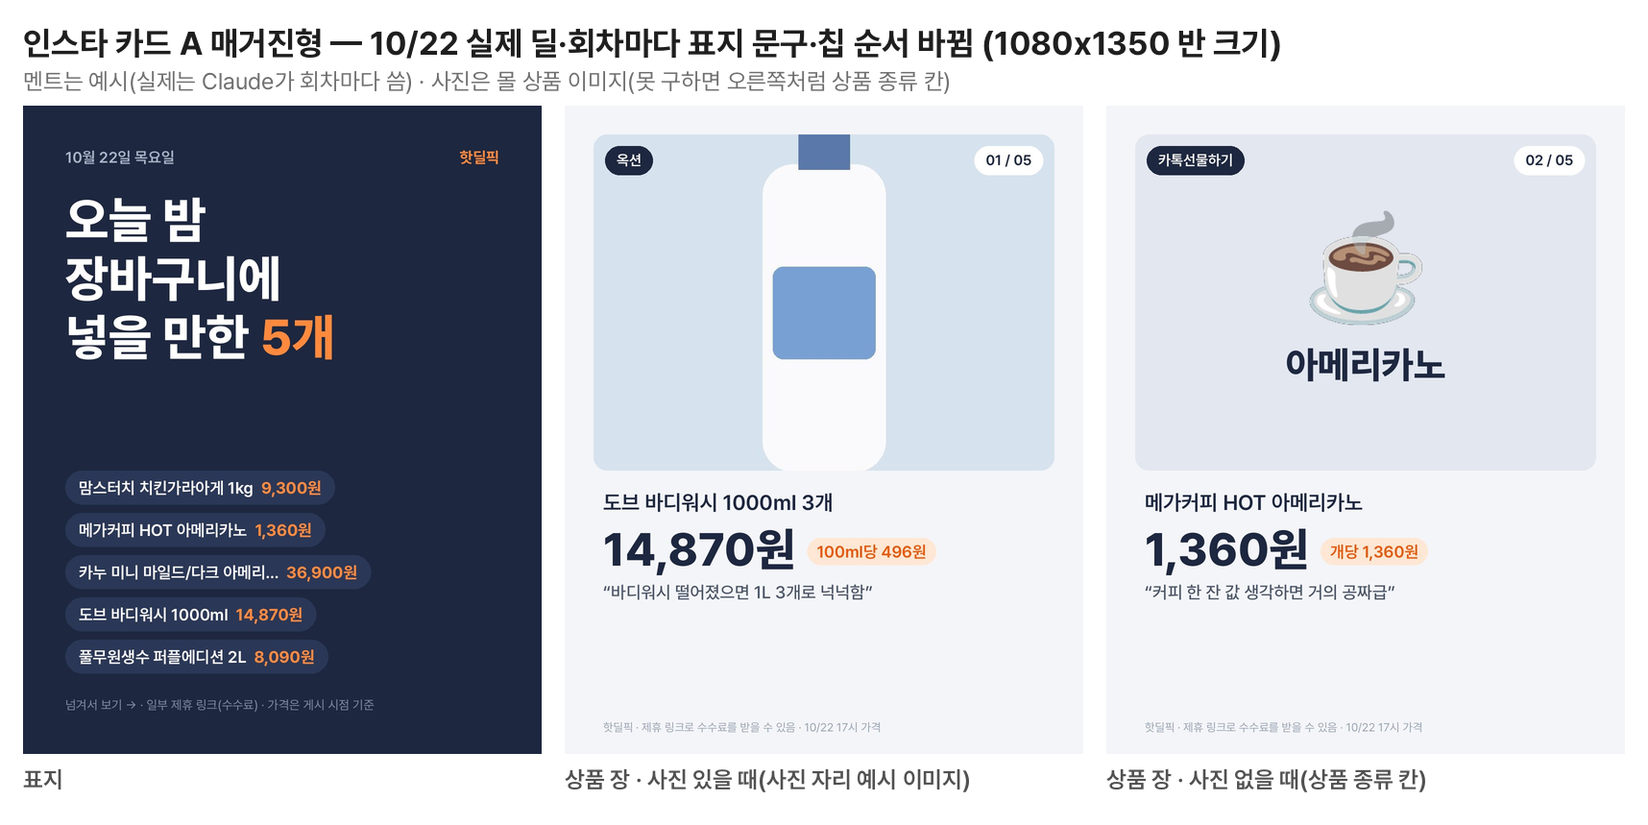
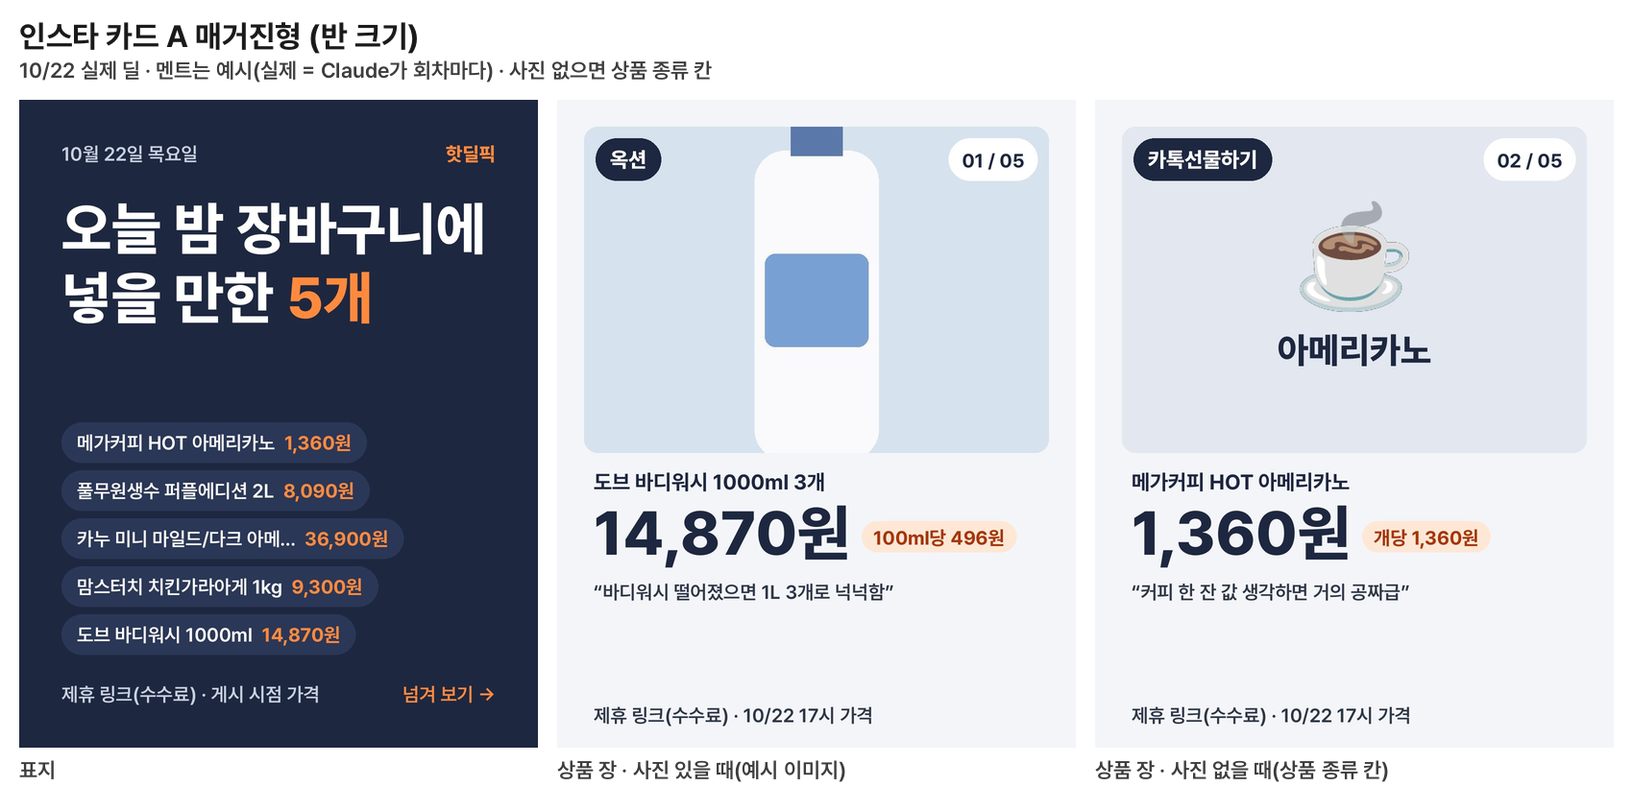
인스타 새 카드 '눈에 잘 들어와야'(진우): 제목 2줄·핵심 숫자 1개 크게·보조 글자 40px↑·크림 위 회색 X·대비 4.5:1↑ + 1/3 크기 시안
- A: 제목 2줄(폭 맞춤 최대 128px), 칩·날짜·안내 40px, 상품 장 가격 최대 128px·몰 배지 44px ExtraBold, 칩 글자 진한 주황(대비 5.6)
- B: 먹색 제목·가격 + 형광펜, 타일 이름 40px·가격 54px 형광펜, 스티커 진한 테두리·가격 80px·단위가격 40px, 안내·몰 줄 진한 갈색
- cards.contrast·IG_PAIRS(WCAG) — 전 조합 4.5:1↑(최저 5.0) · 셀프체크: 대비·제목 2줄·그린 글꼴 40px↑·1/3 렌더
- docs/cards/preview_A·B.png + preview_A_small·B_small.png

Claude-Session: https://claude.ai/code/session_0166LncLSude1PVe4eEqmcYn

diff --git a/cards.py b/cards.py
@@ -423,10 +423,12 @@ if __name__ == "__main__":
 # ── 인스타 카드 새 디자인(10/22 22:3x 진우 '디자인 업그레이드' — 시안 A·B 번갈아, 인스타만: 텔레그램·Threads·사이트 카드는 위 make·deal_card 그대로) ──
 # it(상품 1개) = {"name", "short"(칩·타일용 짧은 이름), "price", "chip"(단위가격·'와우 할인'·'47%↓'), "badge"('🚀 쿠팡 로켓'·'💙 토스 특가'·'네이버' — 채널 머리 줄 규칙),
 #                 "ship"('내일 도착'·'무료배송'), "photo"(몰 상품 이미지 경로, 없으면 None -> 상품 종류 글자 칸), "e"(이모지), "kind"(상품 종류 낱말), "line"(한 줄 멘트), "when"('10/22 21시')}
-NAVY, NAVY2, ORANGE, PAPER, BROWN, INKB, RUST, HIGHLIGHT = (29, 39, 64), (43, 55, 87), (255, 138, 61), (246, 241, 231), (138, 123, 102), (43, 36, 27), (217, 72, 15), (255, 216, 77)
+NAVY, NAVY2, ORANGE, PAPER, BROWN, INKB, RUST, HIGHLIGHT = (29, 39, 64), (43, 55, 87), (255, 138, 61), (246, 241, 231), (74, 63, 48), (26, 26, 26), (168, 52, 8), (255, 216, 77)
+LIGHT, SLATE, MIST, PEACH, PALE = (244, 245, 248), (45, 55, 72), (201, 209, 224), (255, 231, 214), (227, 231, 239)  # 10/22 진우 '눈에 잘 들어와야': 크림 위 회색 X — 글자는 먹색·진한 갈색, 보조 글자 40px↑
 
 
 def _hex(c):
+    c = {"white": "#ffffff", "black": "#000000"}.get(c, c)
     return tuple(int(c[i:i + 2], 16) for i in (1, 3, 5)) if isinstance(c, str) else c
 
 
@@ -484,7 +486,7 @@ def _photo(it, w, h, radius, bg=(227, 231, 239), ink=NAVY):
             pass
         kind = it.get("kind") or ""
         if kind:
-            f = pf("ExtraBold", max(26, int(min(w, h) * 0.11)))
+            f = pf("ExtraBold", max(40, int(min(w, h) * 0.11)))  # 보조 글자 40px↑
             s = _fit(f, kind, w - 40)
             d.text(((w - f.getlength(s)) / 2, h * 0.5 + es * 0.35), s, font=f, fill=ink)
     mask = Image.new("L", (w, h), 0)
@@ -499,158 +501,198 @@ def _save(im, out):
     return out
 
 
-def ig_cover(design, items, date_text, title, out, sub="", note="넘겨서 보기 → · 일부 제휴 링크(수수료) · 가격은 게시 시점 기준"):
-    """인스타 표지(1080x1350 JPEG). design 'A' = 매거진형(남색·큰 제목 3줄·상품 알약 칩), 'B' = 일상 스티커형(크림·형광펜 제목 2줄·2x2 기울인 타일).
-    title = 줄바꿈(\\n)으로 나눈 제목(숫자는 포인트색), sub = 부제(👍 꾸준템이 있을 때 등, A만). date_text: A '10월 22일 목요일' / B '10.22 목'. -> out"""
+
+
+def luminance(c):
+    """WCAG 상대 휘도."""
+    f = lambda v: v / 12.92 if v <= 0.03928 else ((v + 0.055) / 1.055) ** 2.4
+    r, g, b = (f(x / 255) for x in _hex(c)[:3])
+    return 0.2126 * r + 0.7152 * g + 0.0722 * b
+
+
+def contrast(a, b):
+    """WCAG 대비(1~21) — 보통 글자 4.5 이상, 큰 글자(24px↑ 또는 굵은 19px↑) 3 이상."""
+    la, lb = sorted((luminance(a), luminance(b)), reverse=True)
+    return (la + 0.05) / (lb + 0.05)
+
+
+IG_PAIRS = {  # 인스타 새 카드에 쓰는 글자색·바탕색 전부(셀프체크가 4.5:1 이상인지 봄 — 글자는 모두 40px↑라 큰 글자 기준 3:1보다 높게)
+    "A 표지 제목·칩 이름": ("white", NAVY), "A 표지 숫자·칩 가격": (ORANGE, NAVY), "A 표지 날짜·부제·안내": (MIST, NAVY), "A 칩 이름": ("white", NAVY2), "A 칩 가격": (ORANGE, NAVY2),
+    "A 상품명·가격": (NAVY, LIGHT), "A 몰 배지": ("white", NAVY), "A 번호 알약": (NAVY, "white"), "A 칩": (RUST, PEACH), "A 멘트": (SLATE, LIGHT), "A 안내": (SLATE, LIGHT), "A 종류 칸": (NAVY, PALE),
+    "B 제목·가격": (INKB, PAPER), "B 형광펜 위": (INKB, HIGHLIGHT), "B 타일·폴라로이드 글자": (INKB, "white"), "B 날짜·안내·몰 줄": (BROWN, PAPER), "B 더보기 알약": ("white", INKB),
+    "B 종류 칸": (INKB, (244, 238, 226)), "B 스티커": (INKB, HIGHLIGHT), "B 말풍선": (INKB, "white")}
+
+
+def _sized(text, weight, sizes, width):
+    """여러 줄(\n) 글자가 width 안에 들어가는 가장 큰 크기."""
+    return next((z for z in sizes if all(pf(weight, z).getlength(l) <= width for l in text.split("\n"))), sizes[-1])
+
+
+def _marker(d, xy, s, f, fill, mark):
+    """형광펜 밑줄(글자 아래 42%) 위에 글자."""
+    bb = d.textbbox(xy, s, font=f)
+    d.rectangle((bb[0] - 6, bb[3] - int((bb[3] - bb[1]) * 0.42), bb[2] + 6, bb[3] + 4), fill=mark)
+    d.text(xy, s, font=f, fill=fill)
+
+
+def ig_cover(design, items, date_text, title, out, sub="", note="제휴 링크(수수료) · 게시 시점 가격"):
+    """인스타 표지(1080x1350 JPEG) — 폰 피드에서 1초 안에 읽히게(10/22 진우): 제목 2줄(크게, 숫자 1개만 포인트색), 보조 글자 40px↑, 대비 4.5:1↑(IG_PAIRS).
+    design 'A' = 매거진형(남색·제목·상품 알약 칩), 'B' = 일상 스티커형(크림·형광펜 제목·2x2 기울인 타일). title = 2줄(\n). date_text: A '10월 22일 목요일' / B '10.22 목'. -> out"""
+    lines = title.split("\n")[:2]
     if design == "A":
         im = Image.new("RGBA", (W, H), NAVY + (255,))
         d, P = ImageDraw.Draw(im), 88
-        d.text((P, P), date_text, font=pf("SemiBold", 32), fill=_hex("#aab4c8"))
-        f = pf("Bold", 32); d.text((W - P - f.getlength("핫딜픽"), P), "핫딜픽", font=f, fill=ORANGE)
-        y, ft = 176, pf("ExtraBold", 104)
-        for line in title.split("\n")[:3]:
+        f = pf("SemiBold", 40); d.text((P, P), date_text, font=f, fill=MIST)
+        f = pf("ExtraBold", 40); d.text((W - P - f.getlength("핫딜픽"), P), "핫딜픽", font=f, fill=ORANGE)
+        z = _sized("\n".join(lines), "ExtraBold", (128, 120, 112, 104, 96, 88), W - 2 * P)
+        ft, y = pf("ExtraBold", z), 196
+        for line in lines:
             x = P
             for tok in re.findall(r"\S+\s*", _fit(ft, line, W - 2 * P)):
                 d.text((x, y), tok, font=ft, fill=ORANGE if re.search(r"\d", tok) else "white")
                 x += d.textlength(tok, font=ft)
-            y += 122
+            y += int(z * 1.2)
         if sub:
-            d.text((P, y + 22), sub, font=pf("Medium", 36), fill=_hex("#c9d1e0"))
-        fc, fp = pf("SemiBold", 34), pf("Bold", 34)
+            d.text((P, y + 16), _fit(pf("SemiBold", 40), sub, W - 2 * P), font=pf("SemiBold", 40), fill=MIST)
+        fc, fp = pf("SemiBold", 40), pf("Bold", 40)
         rows, row, rw = [], [], 0
         for it in items:
-            name = _fit(fc, it.get("short") or it["name"], 420)
-            w = int(fc.getlength(name + "  ") + fp.getlength(it.get("price") or "") + 56)
+            name = _fit(fc, it.get("short") or it["name"], 470)
+            w = int(fc.getlength(name + "  ") + fp.getlength(it.get("price") or "") + 64)
             if row and rw + w > W - 2 * P:
                 rows.append(row); row, rw = [], 0
             row.append((name, it.get("price") or "", w)); rw += w + 16
         rows += [row] if row else []
-        y = H - 150 - len(rows) * 88
+        y = H - P - 60 - 30 - len(rows) * 100
         for row in rows:
             x = P
             for name, price, w in row:
-                d.rounded_rectangle((x, y, x + w, y + 70), radius=35, fill=NAVY2)
-                d.text((x + 28, y + 15), name + "  ", font=fc, fill="white")
-                d.text((x + 28 + fc.getlength(name + "  "), y + 15), price, font=fp, fill=ORANGE)
+                d.rounded_rectangle((x, y, x + w, y + 84), radius=42, fill=NAVY2)
+                d.text((x + 32, y + 18), name + "  ", font=fc, fill="white")
+                d.text((x + 32 + fc.getlength(name + "  "), y + 18), price, font=fp, fill=ORANGE)
                 x += w + 16
-            y += 88
-        d.text((P, H - P - 30), note, font=pf("Regular", 26), fill=_hex("#7f8aa3"))
+            y += 100
+        f = pf("SemiBold", 40)
+        d.text((P, H - P - 48), _fit(f, note, W - 2 * P - 260), font=f, fill=MIST)
+        d.text((W - P - f.getlength("넘겨 보기 →"), H - P - 48), "넘겨 보기 →", font=f, fill=ORANGE)
         return _save(im, out)
     im = Image.new("RGBA", (W, H), PAPER + (255,))
     d, P = ImageDraw.Draw(im), 76
-    d.text((P, 74), f"{date_text} · 핫딜픽 일상 장보기", font=pf("SemiBold", 30), fill=BROWN)
-    ft, y = pf("ExtraBold", 84), 138
-    for k, line in enumerate(title.split("\n")[:2]):
+    d.text((P, 64), _fit(pf("Bold", 40), f"{date_text} · 핫딜픽 일상 장보기", W - 2 * P), font=pf("Bold", 40), fill=BROWN)
+    z = _sized("\n".join(lines), "ExtraBold", (96, 88, 80, 72), W - 2 * P)
+    ft, y = pf("ExtraBold", z), 132
+    for k, line in enumerate(lines):
         line = _fit(ft, line, W - 2 * P)
-        if k == 1:  # 둘째 줄 형광펜 밑줄(글자 아래 42%)
-            bb = d.textbbox((P, y), line, font=ft)
-            d.rectangle((bb[0] - 6, bb[3] - int((bb[3] - bb[1]) * 0.42), bb[2] + 6, bb[3] + 4), fill=HIGHLIGHT)
-        d.text((P, y), line, font=ft, fill=INKB)
-        y += 104
-    from PIL import ImageFilter
-    tw, th, gx, gy = 440, 392, 44, 40
-    x0, y0 = (W - 2 * tw - gx) // 2, 392
+        (_marker(d, (P, y), line, ft, INKB, HIGHLIGHT) if k == 1 else d.text((P, y), line, font=ft, fill=INKB))
+        y += int(z * 1.18)
+    tw, th, gx, gy = 452, 372, 32, 34
+    x0, y0 = (W - 2 * tw - gx) // 2, y + 26
+    fn, fpr = pf("Bold", 40), pf("ExtraBold", 54)
     for k, it in enumerate(items[:4]):
         card = Image.new("RGBA", (tw + 40, th + 50), (0, 0, 0, 0))
         cd = ImageDraw.Draw(card)
-        cd.rounded_rectangle((20, 26, 20 + tw, 26 + th), radius=26, fill=_hex("#e6dccb"))  # 아래 그림자 6px
-        cd.rounded_rectangle((20, 20, 20 + tw, 20 + th), radius=26, fill="white")
-        card.alpha_composite(_photo(it, tw - 36, 230, 18, bg=(244, 238, 226), ink=INKB), (38, 38))
-        f1, f2 = pf("SemiBold", 27), pf("ExtraBold", 38)
-        cd.text((38, 284), _fit(f1, it.get("short") or it["name"], tw - 36), font=f1, fill=INKB)
-        cd.text((38, 326), _fit(f2, it.get("price") or "", tw - 36), font=f2, fill=RUST)
+        cd.rounded_rectangle((20, 27, 20 + tw, 27 + th), radius=26, fill=_hex("#d9cbb2"))  # 아래 그림자
+        cd.rounded_rectangle((20, 20, 20 + tw, 20 + th), radius=26, fill="white", outline=_hex("#e6dccb"), width=2)
+        card.alpha_composite(_photo(it, tw - 36, 186, 18, bg=(244, 238, 226), ink=INKB), (38, 38))
+        cd.text((38, 240), _fit(fn, it.get("short") or it["name"], tw - 36), font=fn, fill=INKB)
+        _marker(cd, (38, 300), _fit(fpr, it.get("price") or "", tw - 36), fpr, INKB, HIGHLIGHT)
         card = card.rotate((-2, 1.5, 1, -1.5)[k], resample=Image.BICUBIC, expand=True)
         cx, cy = x0 + (k % 2) * (tw + gx) + tw // 2, y0 + (k // 2) * (th + gy) + th // 2
         im.alpha_composite(card, (cx - card.width // 2, cy - card.height // 2))
+    f = pf("Bold", 40)
     more = len(items) - 4
     if more > 0:
-        f = pf("Bold", 30); s = f"+{more}개 더 →"; w = int(f.getlength(s)) + 56
-        d.rounded_rectangle((W - P - w, H - 128, W - P, H - 64), radius=32, fill=INKB)
-        d.text((W - P - w + 28, H - 117), s, font=f, fill="white")
-    d.text((P, H - 108), "제휴 링크 수수료 · 게시 시점 가격", font=pf("Regular", 24), fill=BROWN)
+        s = f"+{more}개 더 →"; w = int(f.getlength(s)) + 64
+        d.rounded_rectangle((W - P - w, H - 112, W - P, H - 36), radius=38, fill=INKB)
+        d.text((W - P - w + 32, H - 98), s, font=f, fill="white")
+    d.text((P, H - 96), _fit(pf("SemiBold", 40), note, W - 2 * P - (300 if more > 0 else 0)), font=pf("SemiBold", 40), fill=BROWN)
     return _save(im, out)
 
 
 def ig_slide(design, it, n, total, out):
-    """인스타 상품 장(1080x1350 JPEG, 표지 다음 장들). A = 위 700px 사진(몰 배지·n/total 알약) + 상품명·큰 가격·칩·한 줄 멘트,
-    B = 기울인 폴라로이드 사진 + 노란 원 스티커(가격·단위가격) + 말풍선 멘트 + 몰·배송 줄. 사진 없으면 상품 종류 글자 칸. -> out"""
+    """인스타 상품 장(1080x1350 JPEG) — 핵심 숫자 = 가격 1개만 크게, 보조 글자 40px↑, 사진 위 글자는 단색 알약 위(묻히지 않게), 대비 4.5:1↑(IG_PAIRS).
+    A = 위 사진(몰 배지·n/total 알약) + 상품명·큰 가격·칩·멘트, B = 기울인 폴라로이드 + 진한 테두리 원 가격 스티커 + 말풍선 멘트 + 몰·배송 줄. 사진 없으면 상품 종류 글자 칸. -> out"""
     when = f"{it['when']} 가격" if it.get("when") else "게시 시점 가격"
+    price = it.get("price") or ""
     if design == "A":
-        im = Image.new("RGBA", (W, H), _hex("#f4f5f8") + (255,))
-        d, P = ImageDraw.Draw(im), 60
-        im.alpha_composite(_photo(it, W - 2 * P, 700, 28), (P, P))
-        fb = pf("SemiBold", 30)
+        im = Image.new("RGBA", (W, H), LIGHT + (255,))
+        d, P = ImageDraw.Draw(im), 56
+        im.alpha_composite(_photo(it, W - 2 * P, 680, 28, bg=PALE, ink=NAVY), (P, P))
+        fb = pf("ExtraBold", 44)
         if it.get("badge"):
-            w = _pill_w(fb, it["badge"], 24)
-            d.rounded_rectangle((P + 24, P + 24, P + 24 + w, P + 84), radius=30, fill=NAVY)
-            _em_text(d, im, (P + 48, P + 35), it["badge"], fb, "white")
-        s = f"{n:02d} / {total:02d}"; w = int(fb.getlength(s)) + 48
-        d.rounded_rectangle((W - P - 24 - w, P + 24, W - P - 24, P + 84), radius=30, fill="white")
-        d.text((W - P - 24 - w + 24, P + 35), s, font=fb, fill=NAVY)
-        X, y = 80, 800
-        fn = pf("SemiBold", 44)
+            w = _pill_w(fb, it["badge"], 30)
+            d.rounded_rectangle((P + 24, P + 24, P + 24 + w, P + 112), radius=44, fill=NAVY)
+            _em_text(d, im, (P + 54, P + 42), it["badge"], fb, "white")
+        fn_ = pf("Bold", 40); s = f"{n:02d} / {total:02d}"; w = int(fn_.getlength(s)) + 56
+        d.rounded_rectangle((W - P - 24 - w, P + 24, W - P - 24, P + 112), radius=44, fill="white")
+        d.text((W - P - 24 - w + 28, P + 46), s, font=fn_, fill=NAVY)
+        X, y = 76, P + 680 + 34
+        fn = pf("Bold", 44)
         for line in wrap(d, it["name"], fn, W - 2 * X, 2):
             d.text((X, y), line, font=fn, fill=NAVY); y += 56
-        y += 10
-        fpz = next((z for z in (96, 84, 72, 60) if pf("ExtraBold", z).getlength(it.get("price") or "") <= W - 2 * X - (260 if it.get("chip") else 0)), 60)
+        fpz = _sized(price, "ExtraBold", (128, 116, 104, 92, 80, 68), W - 2 * X)
         fp = pf("ExtraBold", fpz)
-        d.text((X, y), it.get("price") or "", font=fp, fill=NAVY)
-        if it.get("chip"):
-            fc = pf("SemiBold", 34); c = _fit(fc, it["chip"], W - 2 * X - fp.getlength(it.get("price") or "") - 70)
-            cx, cw = X + fp.getlength(it.get("price") or "") + 24, int(fc.getlength(c)) + 40
-            cy = y + fpz - 62
-            d.rounded_rectangle((cx, cy, cx + cw, cy + 56), radius=28, fill=_hex("#ffe7d6"))
-            d.text((cx + 20, cy + 8), c, font=fc, fill=_hex("#e8590c"))
-        y += int(fpz * 1.18) + 12
+        d.text((X, y), price, font=fp, fill=NAVY)
+        pb = d.textbbox((X, y), price or "0", font=fp)  # 실제 글자 상자(큰 글자는 위아래 여백이 커서 — 아래 줄과 안 겹치게)
+        chip = it.get("chip") or ""
+        fc = pf("Bold", 40)
+        side = chip and fp.getlength(price) + 24 + fc.getlength(chip) + 48 <= W - 2 * X
+        y = pb[3] + 26
+        if chip:
+            cx, cy = (X + fp.getlength(price) + 24, (pb[1] + pb[3]) // 2 - 32) if side else (X, y)
+            c = _fit(fc, chip, W - 2 * X - 48)
+            d.rounded_rectangle((cx, cy, cx + fc.getlength(c) + 48, cy + 64), radius=32, fill=PEACH)
+            d.text((cx + 24, cy + 10), c, font=fc, fill=RUST)
+            y += 0 if side else 86
         if it.get("line"):
-            fl = pf("Medium", 36)
-            for line in wrap(d, f"“{it['line']}”", fl, W - 2 * X, 2):
-                d.text((X, y), line, font=fl, fill=_hex("#4a5568")); y += 48
-        d.text((X, H - 70), f"핫딜픽 · 제휴 링크로 수수료를 받을 수 있음 · {when}", font=pf("Regular", 24), fill=_hex("#9aa3b2"))
+            fl = pf("SemiBold", 40)
+            for line in wrap(d, f"“{it['line']}”", fl, W - 2 * X, 2 if y < H - 260 else 1):
+                d.text((X, y), line, font=fl, fill=SLATE); y += 52
+        f = pf("SemiBold", 40)
+        d.text((X, H - 92), _fit(f, f"제휴 링크(수수료) · {when}", W - 2 * X), font=f, fill=SLATE)
         return _save(im, out)
     from PIL import ImageFilter
     im = Image.new("RGBA", (W, H), PAPER + (255,))
     d = ImageDraw.Draw(im)
-    pw, b, bb = 640, 26, 90
+    pw, b, bb = 640, 26, 100
     pol = Image.new("RGBA", (pw + 2 * b + 60, pw + b + bb + 60), (0, 0, 0, 0))
     sh = Image.new("RGBA", pol.size, (0, 0, 0, 0))
-    ImageDraw.Draw(sh).rectangle((30, 42, 30 + pw + 2 * b, 42 + pw + b + bb), fill=(80, 60, 30, 70))
+    ImageDraw.Draw(sh).rectangle((30, 42, 30 + pw + 2 * b, 42 + pw + b + bb), fill=(70, 50, 20, 90))
     pol.alpha_composite(sh.filter(ImageFilter.GaussianBlur(14)))
     pd = ImageDraw.Draw(pol)
     pd.rectangle((30, 30, 30 + pw + 2 * b, 30 + pw + b + bb), fill="white")
     pol.alpha_composite(_photo(it, pw, pw, 6, bg=(244, 238, 226), ink=INKB), (30 + b, 30 + b))
-    fn = pf("SemiBold", 34)
-    pd.text((30 + b, 30 + b + pw + 24), _fit(fn, it.get("short") or it["name"], pw), font=fn, fill=INKB)
+    fn = pf("Bold", 40)
+    pd.text((30 + b, 30 + b + pw + 26), _fit(fn, it.get("short") or it["name"], pw), font=fn, fill=INKB)
     pol = pol.rotate(-2, resample=Image.BICUBIC, expand=True)
-    im.alpha_composite(pol, (36, 40))
-    st = Image.new("RGBA", (300, 300), (0, 0, 0, 0))
+    im.alpha_composite(pol, (30, 30))
+    st = Image.new("RGBA", (420, 420), (0, 0, 0, 0))
     sd = ImageDraw.Draw(st)
-    sd.ellipse((25, 25, 275, 275), fill=HIGHLIGHT)
-    price = it.get("price") or ""
-    fpz = next((z for z in (52, 46, 40, 34) if pf("ExtraBold", z).getlength(price) <= 210), 34)
-    fp = pf("ExtraBold", fpz)
-    unit = it.get("chip") or ""
-    fu = pf("SemiBold", 28); unit = _fit(fu, unit, 200)
-    top = 150 - (fpz + (36 if unit else 0)) // 2
-    sd.text((150 - fp.getlength(price) / 2, top), price, font=fp, fill=INKB)
+    sd.ellipse((24, 24, 396, 396), fill=HIGHLIGHT, outline=INKB, width=8)
+    fpz = _sized(price, "ExtraBold", (80, 72, 64, 56, 48, 40), 310)
+    fp, unit, fu = pf("ExtraBold", fpz), it.get("chip") or "", pf("Bold", 40)
+    unit = _fit(fu, unit, 310)
+    top = 210 - (fpz + (54 if unit else 0)) // 2 - 8
+    sd.text((210 - fp.getlength(price) / 2, top), price, font=fp, fill=INKB)
     if unit:
-        sd.text((150 - fu.getlength(unit) / 2, top + fpz + 8), unit, font=fu, fill=INKB)
+        sd.text((210 - fu.getlength(unit) / 2, top + fpz + 12), unit, font=fu, fill=INKB)
     st = st.rotate(-8, resample=Image.BICUBIC)
-    im.alpha_composite(st, (W - 340, 150))
-    y = 900
+    im.alpha_composite(st, (W - 430, 96))
+    y = 870
     if it.get("line"):
-        fl = pf("SemiBold", 38)
-        rows = wrap(d, it["line"], fl, W - 2 * 76 - 80, 2)
-        bh = 52 * len(rows) + 56
-        d.rounded_rectangle((76, y, W - 76, y + bh), radius=28, fill="white")
-        d.polygon([(150, y), (190, y), (160, y - 30)], fill="white")
+        fl = pf("Bold", 44)
+        rows = wrap(d, it["line"], fl, W - 2 * 70 - 80, 2)
+        bh = 58 * len(rows) + 56
+        d.rounded_rectangle((70, y, W - 70, y + bh), radius=28, fill="white", outline=_hex("#e6dccb"), width=2)
+        d.polygon([(150, y + 1), (192, y + 1), (160, y - 30)], fill="white")
         for k, line in enumerate(rows):
-            _em_text(d, im, (116, y + 28 + 52 * k), line, fl, INKB)
-        y += bh + 34
+            _em_text(d, im, (110, y + 28 + 58 * k), line, fl, INKB)
+        y += bh + 36
     else:
         y += 20
     meta = " · ".join(x for x in (it.get("badge"), it.get("ship")) if x)
     if meta:
-        _em_text(d, im, (80, y), meta, pf("SemiBold", 28), BROWN)
-    d.text((80, H - 70), f"{when} · 제휴 링크로 수수료를 받을 수 있음 · 핫딜픽", font=pf("Regular", 24), fill=BROWN)
+        _em_text(d, im, (76, y), _fit(pf("Bold", 40), meta, W - 160), pf("Bold", 40), BROWN)
+    f = pf("SemiBold", 40)
+    d.text((76, H - 92), _fit(f, f"{when} · 제휴 링크(수수료)", W - 152), font=f, fill=BROWN)
     return _save(im, out)

diff --git a/test_hotdeal.py b/test_hotdeal.py
@@ -4839,6 +4839,11 @@ it34 = [{"name": L34, "short": L34, "price": "1,234,567,890원", "chip": "1L당 
          "kind": "세탁세제", "line": "세제 떨어진 집이면 이참에 쟁여도 됨, 그리고 아주 긴 멘트가 두 줄로 넘어가도 괜찮은지 보는 줄 🧺", "when": "10/22 21시"},
         {"name": "휴지 30롤", "short": "휴지", "price": "9,900원", "chip": "", "badge": "💙 토스 특가", "ship": "", "photo": "t34/ph.jpg", "e": "🧻", "kind": "휴지", "line": "", "when": ""},
         {"name": "깨진 사진", "short": "깨진 사진", "price": "", "chip": "47%↓", "badge": "", "ship": "무료배송", "photo": "t34/bad.jpg", "e": None, "kind": "", "line": "", "when": "10/22 9시"}]
+# 10/22 진우 '눈에 잘 들어와야(폰 피드 1초)': 제목 2줄 · 보조 글자 40px↑(그린 글꼴 크기 전부 기록) · 글자·바탕 대비 4.5:1↑(WCAG, 큰 글자 기준 3:1보다 높게) · 1/3 크기로도 렌더
+assert all(C34.contrast(a, b) >= 4.5 for a, b in C34.IG_PAIRS.values()), sorted((round(C34.contrast(a, b), 2), k) for k, (a, b) in C34.IG_PAIRS.items())[:3]
+assert all(len(x.split("\n")) == 2 for xs in H.IG_TITLES.values() for x in xs) and round(C34.contrast("white", "black"), 1) == 21.0 and round(C34.contrast("#777777", "white"), 2) == 4.48
+sz34, pf34 = [], C34.pf
+C34.pf = lambda w, z: sz34.append(z) or pf34(w, z)
 for d34 in "AB":
     for n34 in (1, 3, 5):  # 5개 미만·1개도(타일·칩 자리만큼)
         o34 = C34.ig_cover(d34, (it34 * 2)[:n34], "10월 22일 목요일" if d34 == "A" else "10.22 목", "오늘 밤\n장바구니에\n넣을 만한 5개" if d34 == "A" else "퇴근길에 골라 둔\n살 만한 거 5개",
@@ -4846,6 +4851,12 @@ for d34 in "AB":
         assert I34.open(o34).size == (1080, 1350)
     for k34, x34 in enumerate(it34, 1):  # 긴 이름·긴 가격·긴 칩·이모지 멘트·사진(있음·없음·깨짐)
         assert I34.open(C34.ig_slide(d34, x34, k34, 3, f"t34/{d34}s{k34}.jpg")).size == (1080, 1350)
+C34.pf = pf34
+assert min(sz34) >= 40, sorted(set(sz34))[:5]  # 보조 글자까지 40px↑
+for f34 in os.listdir("t34"):  # 1/3 크기(폰 피드 썸네일 정도)
+    if f34[0] in "AB" and f34.endswith(".jpg"):
+        I34.open(f"t34/{f34}").resize((360, 450), I34.LANCZOS).save(f"t34/{f34[:-4]}_small.png")
+assert len([f for f in os.listdir("t34") if f.endswith("_small.png")]) == 12
 px34 = I34.open("t34/A3.jpg").convert("RGB").getpixel((20, 20)); assert max(abs(a - b) for a, b in zip(px34, C34.NAVY)) < 10, px34  # A 표지 = 남색
 px34 = I34.open("t34/B3.jpg").convert("RGB").getpixel((20, 20)); assert max(abs(a - b) for a, b in zip(px34, C34.PAPER)) < 10, px34  # B 표지 = 크림
 px34 = I34.open("t34/As2.jpg").convert("RGB").getpixel((540, 400)); assert max(abs(a - b) for a, b in zip(px34, (200, 210, 230))) < 12, px34  # A 상품 장 = 위 사진

diff --git a/hotdeal.py b/hotdeal.py
@@ -2823,7 +2823,7 @@ def ig_card_copy(seen, day, out):
     return v
 
 
-IG_TITLES = {"A": ("오늘 밤\n장바구니에\n넣을 만한 {n}개", "퇴근길에\n볼 만한\n{n}개", "이번 주\n쟁여 둘\n{n}개", "자기 전에\n담아 둘\n{n}개"),
+IG_TITLES = {"A": ("오늘 밤 장바구니에\n넣을 만한 {n}개", "퇴근길에 볼 만한\n딜 {n}개", "이번 주 쟁여 둘\n딜 {n}개", "자기 전에 담아 둘\n딜 {n}개"),  # 제목 최대 2줄(10/22 진우 '1초 안에')
              "B": ("퇴근길에 골라 둔\n살 만한 거 {n}개", "오늘 장보기 메모\n쟁여 둘 거 {n}개", "이번 주 장바구니\n채울 거 {n}개")}  # 회차마다 무작위(같은 표지 반복 X)
 IG_KIND_SKIP = r"리필|무향|대용량|국내산|국산|프리미엄|오리지널|오리지날|기획|세트|증정|무료|무배|한정|특가|신상|정품|클래식|에디션|퍼플에디션|용기|본품"
 IG_LINE_PROMPT = """인스타 넘기기 카드에 상품마다 붙일 한 줄 멘트를 사람이 직접 쓰듯 써 주세요(lines[i] = i번 상품, 개수 그대로). 아래 상품 정보에 있는 사실만(없는 숫자 X).
